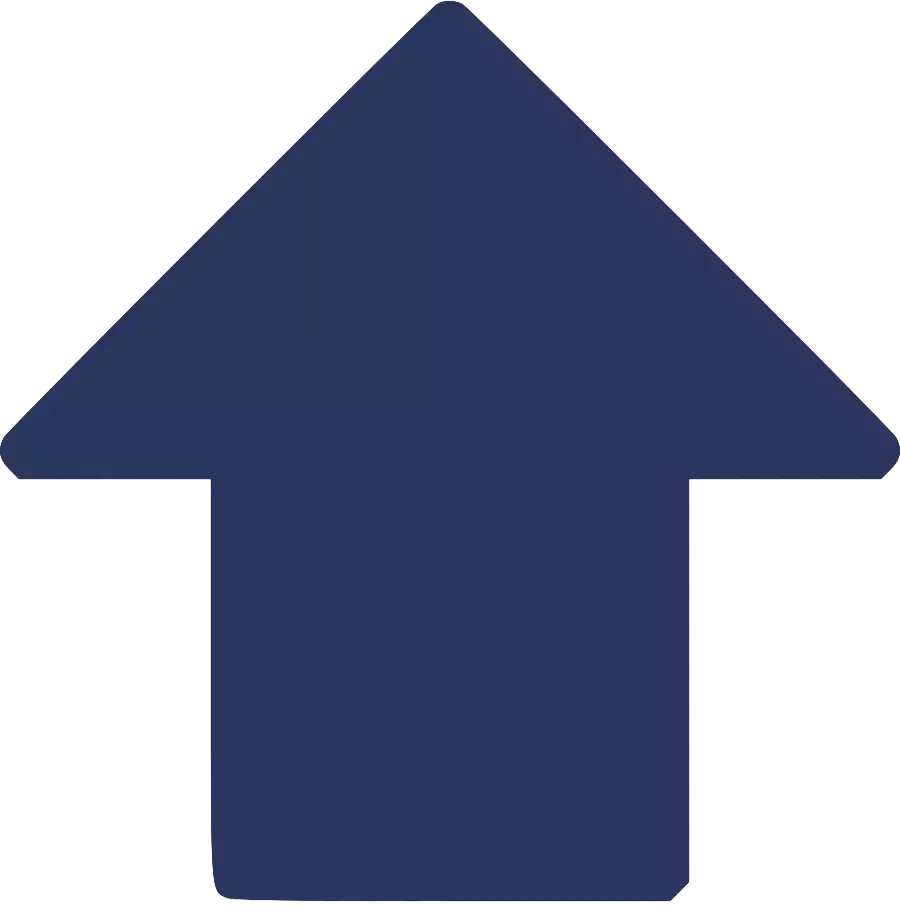
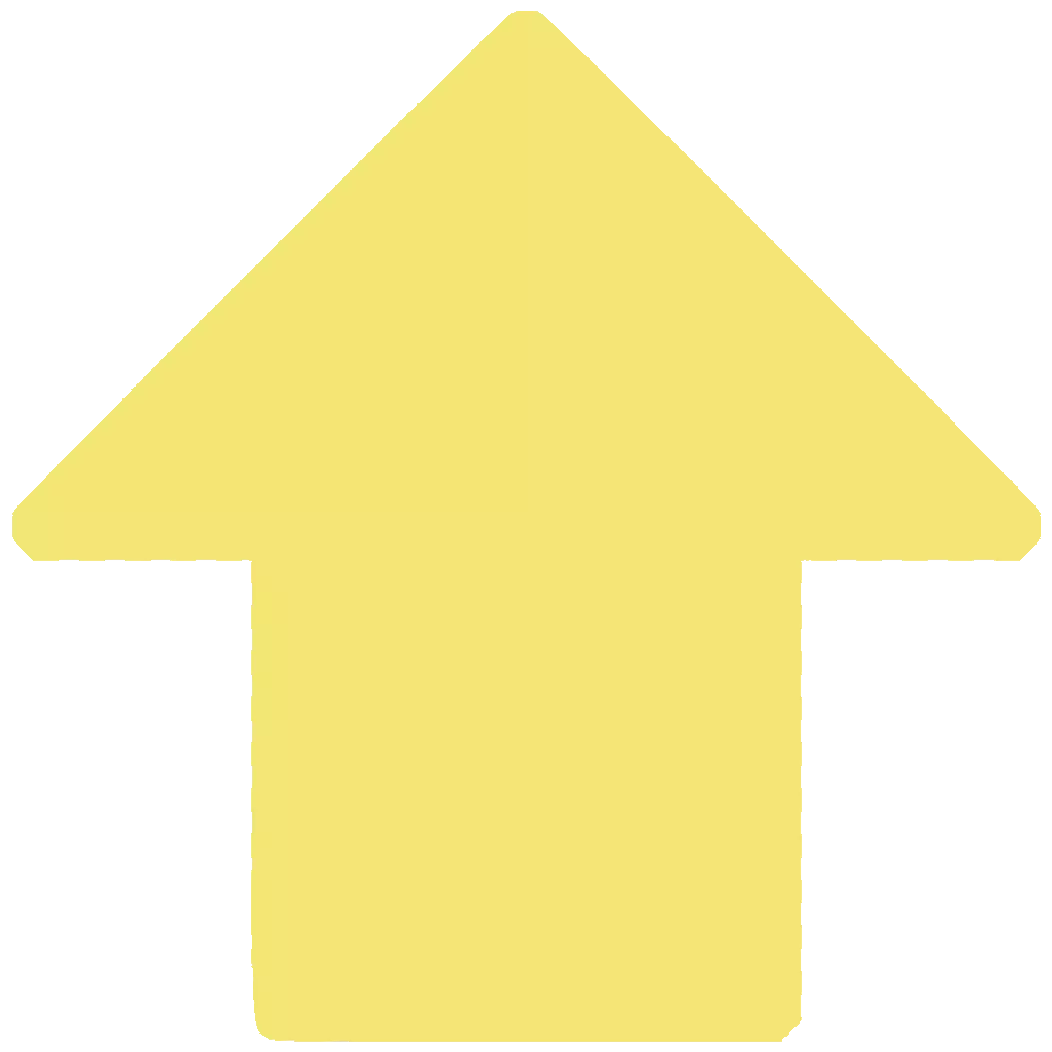
add arrow to go on the top of the website

diff --git a/scripts.js b/scripts.js
@@ -28,6 +28,23 @@ function handleObserver(entries, observer) {
     })
 }
 
+
+/* Gestion de la arrow_top */
+/* La flèche apparait quand la photo d'accueil n'est plus visible */
+var observer_arrow = new IntersectionObserver(function(entries) {
+    if(entries[0].isIntersecting === true){
+        document.getElementById("arrow_go_to_top").style.display = "none"
+    }
+    else {
+        document.getElementById("arrow_go_to_top").style.display = "block"
+    }
+}, { 
+    threshold: [1] 
+})
+
+observer_arrow.observe(document.querySelector("#first_slide_photo"))
+
+
 /* My work page */
 
 // let appearOnHover = document.querySelectorAll(".appear_on_hover");

diff --git a/index.html b/index.html
@@ -82,7 +82,7 @@
 				<img
 					src="images\first_slide_photo.webp"
 					alt="photo of me"
-					class="first_slide_photo"
+					id="first_slide_photo"
 				/>
 			</div>
 			<div class="slider_bloc" id="about_slide" data-id="0">

diff --git a/css/general.css b/css/general.css
@@ -29,10 +29,11 @@ body {
 
 #arrow_go_to_top {
 	position: fixed;
-	width: 30px;
-	right: 30px;
+	width: 40px;
+	right: 2vw;
 	animation: down 1s infinite linear alternate;
 	cursor: pointer;
+	z-index: 1000;
 }
 
 .hide_space {

diff --git a/css/first_slide.css b/css/first_slide.css
@@ -16,7 +16,7 @@
 	background-position: right;
 }
 
-.first_slide_photo {
+#first_slide_photo {
 	width: calc(100vw - 80px);
 	max-width: 400px;
 	right: 0;

diff --git a/css/landscape_version.css b/css/landscape_version.css
@@ -4,7 +4,7 @@
       justify-content: space-around;
     }
 
-    .first_slide_photo{
+    #first_slide_photo{
         width: 50vw;
     }
     

diff --git a/css/desktopXL_version.css b/css/desktopXL_version.css
@@ -7,7 +7,7 @@
 		font-size: clamp(36px, 5vw, 72px);
 	}
 
-	.first_slide_photo {
+	#first_slide_photo {
 		width: 37vw;
 		max-width: none;
 	}

diff --git a/css/tablet_version.css b/css/tablet_version.css
@@ -31,7 +31,7 @@
 		font-size: 18px;
 	}
 
-	.first_slide_photo {
+	#first_slide_photo {
 		width: 40vw;
 		max-width: 600px;
 	}
